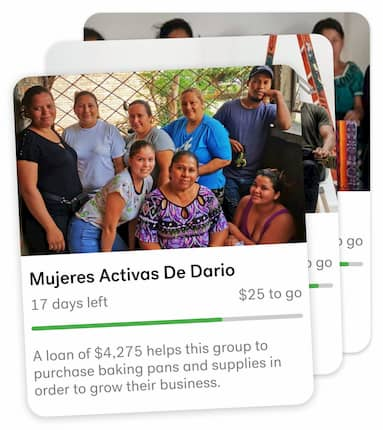
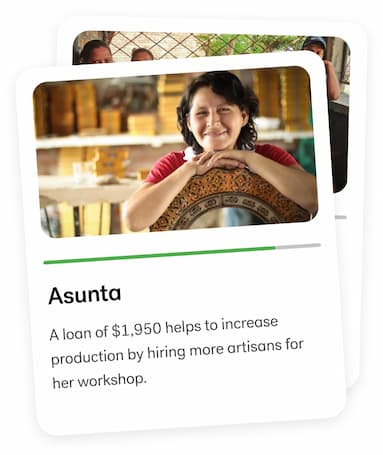
Match homepage header image and font-styling

diff --git a/src/components/CorporateCampaign/CampaignHero.vue b/src/components/CorporateCampaign/CampaignHero.vue
@@ -10,7 +10,7 @@
 					srcset="@/assets/images/loan-card-stack_2x.jpg 2x"
 					alt=""
 					width="383"
-					height="429"
+					height="455"
 				>
 			</div>
 			<!-- eslint-disable-next-line max-len -->
@@ -131,10 +131,11 @@ export default {
 
 	&__header {
 		@include large-text();
-		// padding-top: 1rem;
 
 		@include breakpoint(xlarge) {
 			@include huge-headline();
+
+			font-weight: 500;
 		}
 	}
 
